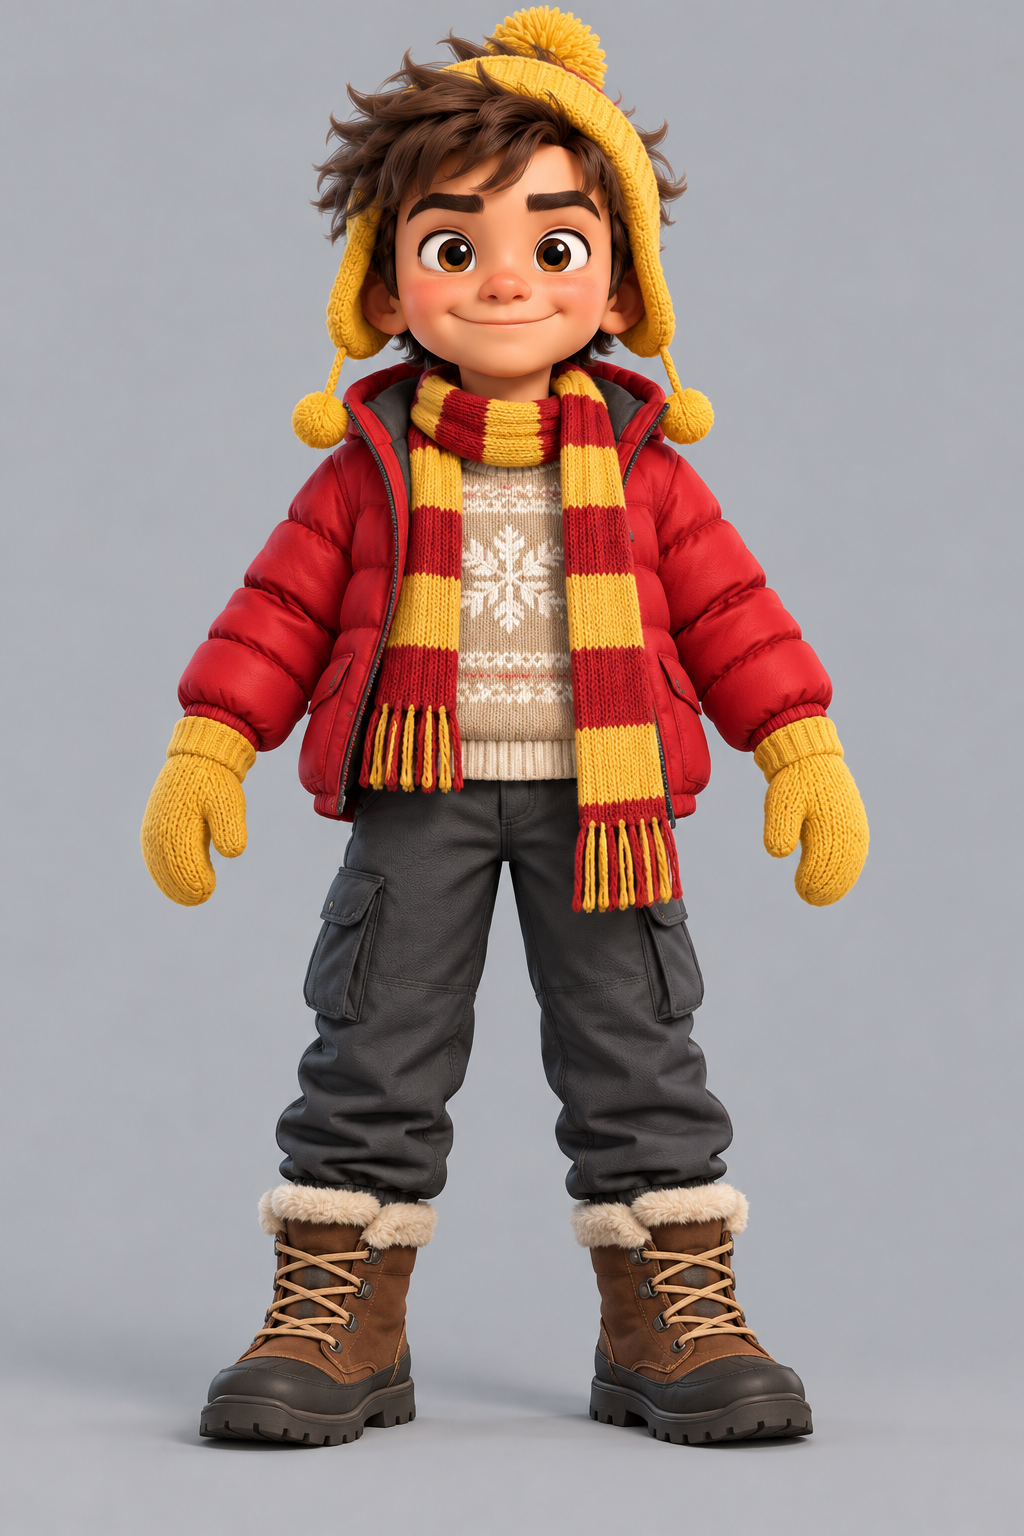
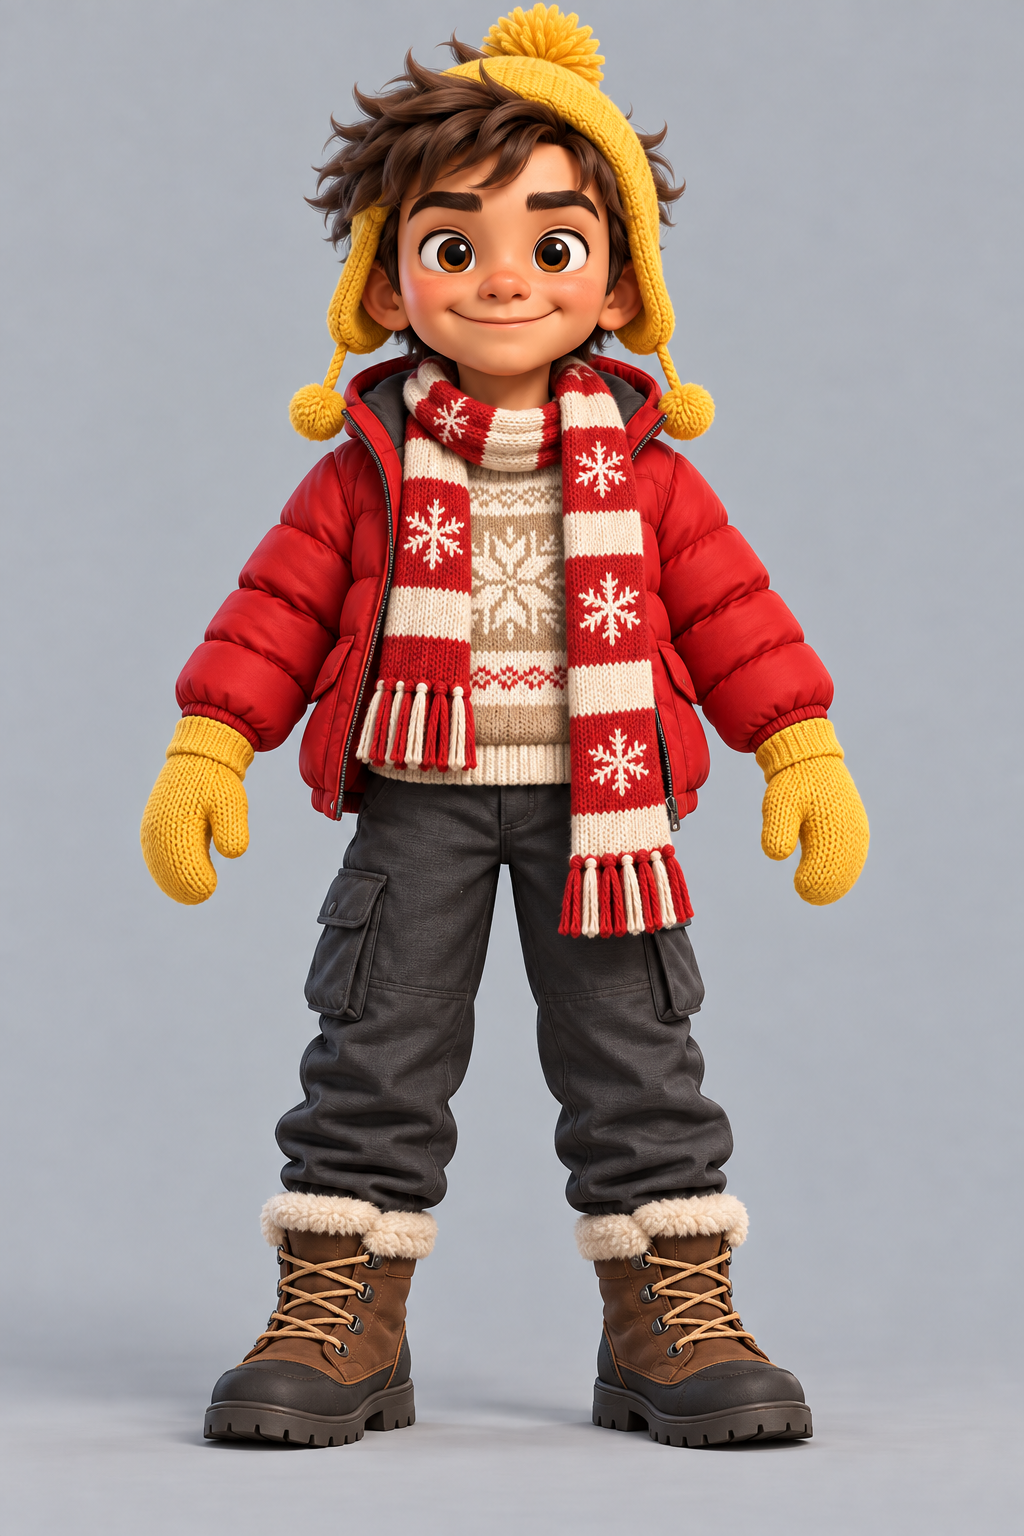
Skin model ids: Halloween Nurse Patch, Starlight Echo; Snow Day Muscle's red-and-white scarf picture checked

Changed region(s): [[0.125, 0.0, 0.8438, 0.9688]]

diff --git a/SKINS.md b/SKINS.md
@@ -18,10 +18,10 @@ previews show it too. Skins change looks only, never skills.
 | 3 | Candy Glow | Glow | `candy-glow/` | `candy-glow.glb` | `GlowCandy` | ready (checked 7 Oct) |
 | 4 | Night Nurse Patch | Patch | `night-nurse-patch/` | `night-nurse-patch.glb` | `PatchNurse` | ready (checked 7 Oct) |
 | 5 | Space Cadet Brainy | Brainy | `space-cadet-brainy/` | `space-cadet-brainy.glb` | `BrainySpace` | ready (checked 7 Oct) |
-| 6 | Snow Day Muscle | Muscle | `snow-day-muscle/` | `snow-day-muscle.glb` | `MuscleSnow` | remake the picture (red and white scarf, prompt 6b) |
-| 7 | Starlight Echo | Echo | `starlight-echo/` | `starlight-echo.glb` | `EchoStar` | ready (checked 7 Oct) |
+| 6 | Snow Day Muscle | Muscle | `snow-day-muscle/` | `snow-day-muscle.glb` | `MuscleSnow` | red-and-white scarf picture checked 8 Oct: ready |
+| 7 | Starlight Echo | Echo | `starlight-echo/` | `starlight-echo.glb` | `EchoStar` | model saved: 78330257038104 (Game Pass to make) |
 | 8 | Autumn Leaf Bramble | Bramble | `autumn-leaf-bramble/` | `autumn-leaf-bramble.glb` | `BrambleAutumn` | model saved: 90429061895312 (Game Pass to make) |
-| 9 | Halloween Nurse Patch | Patch | `halloween-nurse-patch/` | `halloween-nurse-patch.glb` | `PatchHalloween` | ready (checked 7 Oct) |
+| 9 | Halloween Nurse Patch | Patch | `halloween-nurse-patch/` | `halloween-nurse-patch.glb` | `PatchHalloween` | model saved: 80329522710291 (Game Pass to make) |
 
 The **Name in Studio** must be exact (capitals too): the game finds the model
 by that name. Suggested price 99 Robux each.
